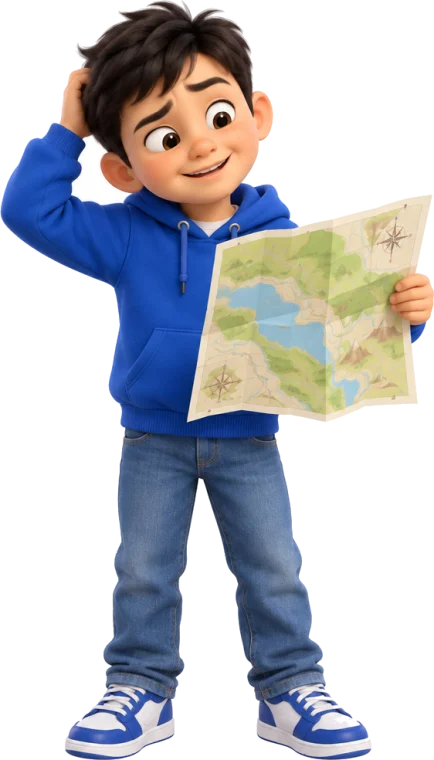
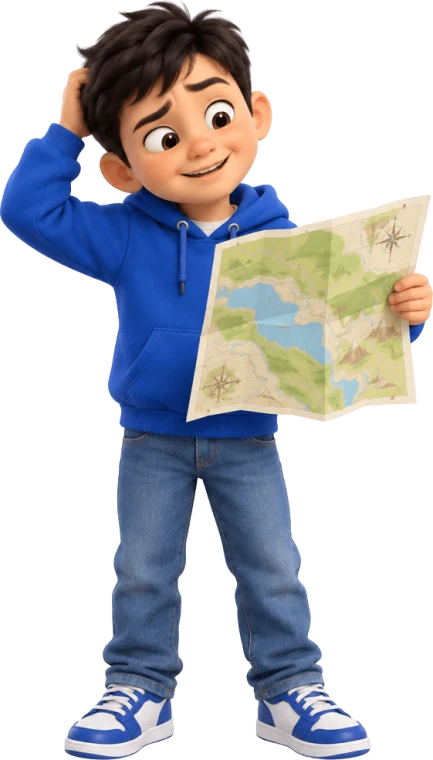
Персонажи: вырезка фона нейросетью, без покачивания
- фон вырезан моделью сегментации: белая обувь, носки и одежда больше
  не становятся прозрачными, белых пятен между руками и ногами нет
- лист сертификата и лампочка восстановлены по исходной картинке
- убрано покачивание персонажей; «дыхание», прыжок и отклик на мышь остались

diff --git a/resources/components/Welcome.vue b/resources/components/Welcome.vue
@@ -99,7 +99,7 @@
           <!-- Двое детей двигаются независимо: обёртка — отклик на мышь, внутри — покачивание и «дыхание» -->
           <div class="stage__duo">
             <div class="kid kid--girl">
-              <span class="ds-anim-sway kid__sway">
+              <span class="kid__sway">
                 <img
                   class="ds-character ds-anim-breathe"
                   :src="'/images/characters/hero-girl.webp'"
@@ -112,7 +112,7 @@
               </span>
             </div>
             <div class="kid kid--boy">
-              <span class="ds-anim-sway kid__sway">
+              <span class="kid__sway">
                 <img
                   class="ds-character ds-anim-breathe"
                   :src="'/images/characters/hero-boy.webp'"
@@ -505,9 +505,7 @@ onMounted(async () => {
 .kid img { width: 100%; height: auto; }
 
 /* Разные периоды и фазы — дети двигаются не синхронно */
-.kid--girl .kid__sway { animation-duration: 4.6s; }
 .kid--girl img { animation-duration: 3.4s; }
-.kid--boy .kid__sway { animation-duration: 5.4s; animation-delay: -1.8s; }
 .kid--boy img { animation-duration: 3.9s; animation-delay: -1.1s; }
 
 .stage__blob,

diff --git a/resources/css/app.css b/resources/css/app.css
@@ -594,11 +594,7 @@ select.ds-input {
     50%      { transform: translateY(-10px); }
 }
 
-/* Живые персонажи: покачивание от ступней, «дыхание», прыжок */
-.ds-anim-sway {
-    transform-origin: 50% 100%;
-    animation: ds-sway 5s ease-in-out infinite;
-}
+/* Живые персонажи: «дыхание» и прыжок */
 .ds-anim-breathe {
     transform-origin: 50% 100%;
     animation: ds-breathe 3.8s ease-in-out infinite;
@@ -606,10 +602,6 @@ select.ds-input {
 .ds-anim-hop {
     transform-origin: 50% 100%;
     animation: ds-hop 2.6s cubic-bezier(0.4, 0, 0.3, 1) infinite;
-}
-@keyframes ds-sway {
-    0%, 100% { transform: rotate(-1.6deg); }
-    50%      { transform: rotate(1.6deg); }
 }
 @keyframes ds-breathe {
     0%, 100% { transform: scale(1, 1); }

diff --git a/resources/components/HowItWorks.vue b/resources/components/HowItWorks.vue
@@ -23,7 +23,7 @@
             </ul>
           </div>
           <img
-            class="step__art ds-character ds-anim-sway"
+            class="step__art ds-character"
             :src="step.image"
             :width="step.width"
             :height="step.height"
@@ -215,8 +215,7 @@ const steps = [
 .step--1 .step__text { padding-bottom: 0; }
 .step--1 .step__tags { max-width: 60%; }
 
-.step--2 .step__art { height: 210px; animation-duration: 4.2s; animation-delay: -1.4s; }
-.step--3 .step__art { animation-duration: 5.6s; animation-delay: -2.6s; }
+.step--2 .step__art { height: 210px; }
 
 .hiw__cta { display: flex; }
 

diff --git a/resources/page/NotFound.vue b/resources/page/NotFound.vue
@@ -68,14 +68,8 @@
   position: relative;
   width: auto;
   height: clamp(240px, 40vw, 320px);
-  animation: kid-wobble 4s ease-in-out infinite;
-  transform-origin: 50% 100%;
 }
 
-@keyframes kid-wobble {
-  0%, 100% { transform: rotate(-2deg); }
-  50%      { transform: rotate(2deg); }
-}
 
 h1 { font-size: clamp(26px, 4vw, 36px); }
 

diff --git a/resources/components/StatePanel.vue b/resources/components/StatePanel.vue
@@ -24,7 +24,7 @@
     </div>
     <img
       v-if="tone === 'empty' && !loading"
-      class="state-panel__kid ds-anim-sway"
+      class="state-panel__kid"
       :src="'/images/characters/girl-idea.webp'"
       width="335"
       height="760"

diff --git a/resources/components/ContactSection.vue b/resources/components/ContactSection.vue
@@ -26,7 +26,7 @@
       </div>
 
       <img
-        class="contact__kid ds-character ds-anim-sway"
+        class="contact__kid ds-character"
         :src="'/images/characters/girl-idea.webp'"
         width="335"
         height="760"
